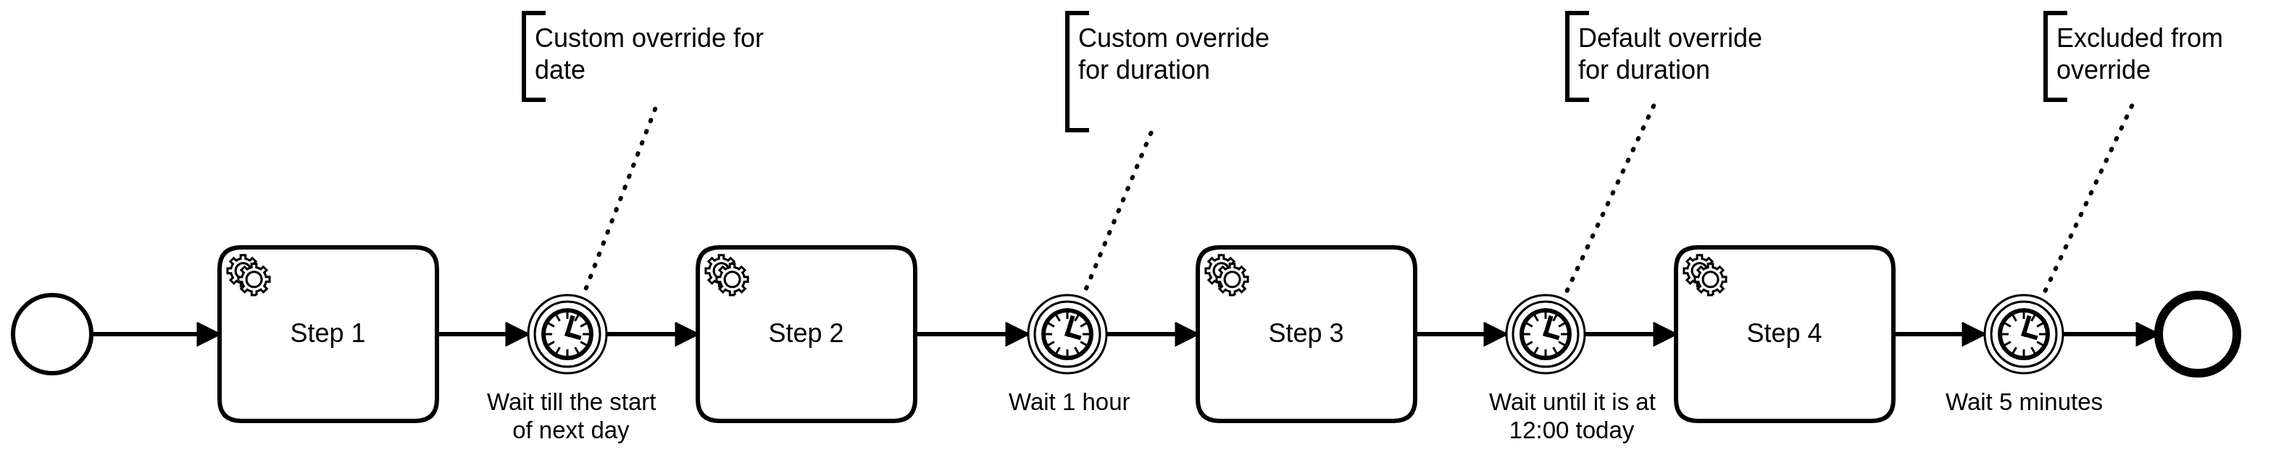
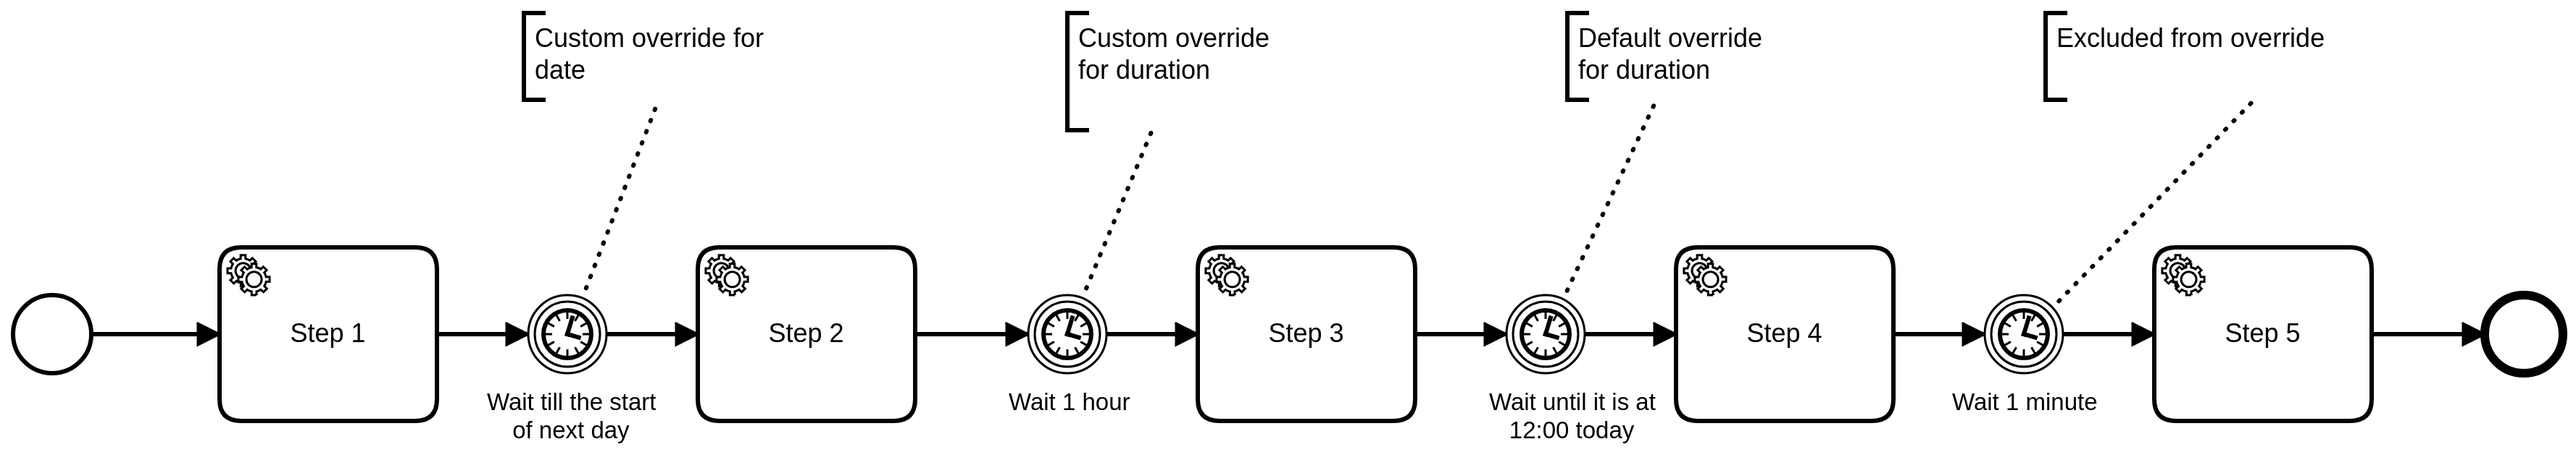
Fixed example and improved its documentation.

diff --git a/timer-override-plugin-spring-boot-starter-sample/README.md b/timer-override-plugin-spring-boot-starter-sample/README.md
@@ -1,6 +1,21 @@
 # Timer Override Plugin Spring Boot Starter sample application
 
 Run the application as a normal Spring Boot app and check out the logs.
+They should print something like this:
+
+```
+2020-08-25 14:45:57.957  INFO 41409 --- [aTaskExecutor-1] e.r.e.c.t.sample.StepLoggingDelegate     : Executing Step 1
+2020-08-25 14:46:13.058  INFO 41409 --- [aTaskExecutor-2] e.r.e.c.t.sample.StepLoggingDelegate     : Executing Step 2
+2020-08-25 14:46:28.104  INFO 41409 --- [aTaskExecutor-3] e.r.e.c.t.sample.StepLoggingDelegate     : Executing Step 3
+2020-08-25 14:46:28.126  INFO 41409 --- [aTaskExecutor-3] e.r.e.c.t.sample.StepLoggingDelegate     : Executing Step 4
+2020-08-25 14:47:43.157  INFO 41409 --- [aTaskExecutor-1] e.r.e.c.t.sample.StepLoggingDelegate     : Executing Step 5
+```
+
+Timers between Step 1 and Step 2 and between Step 2 and Step 3 were overridden to 10 seconds,
+resulting in a ~15 second wait due to the default job executor polling frequency of 15 second.
+Step 4 continued almost immediately after Step 3 as per default overriding value.
+Step 5 executed after ~1 minute as defined in the last timer, because it was excluded from overriding.    
+
 Check out the timers in the `sample.bpmn` process definition.
 Compare it to the overrides defined in `application.properties`.
 
